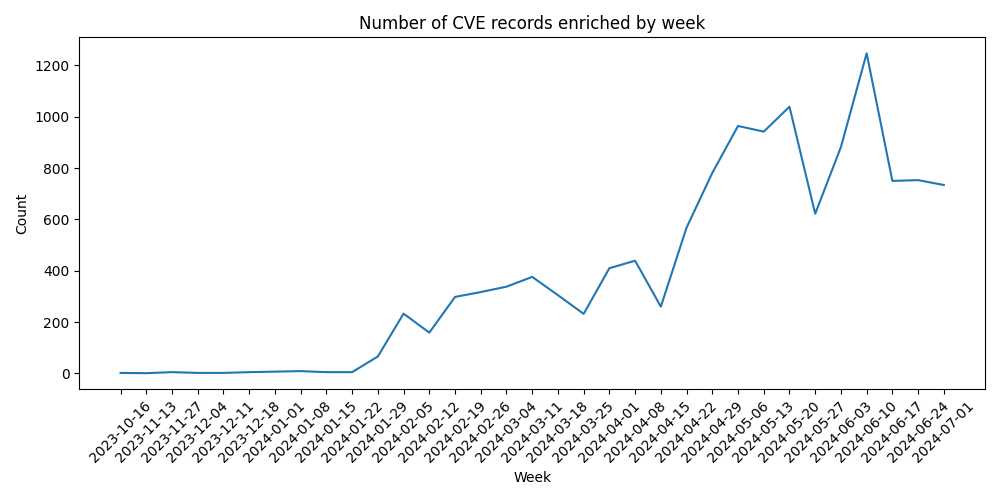
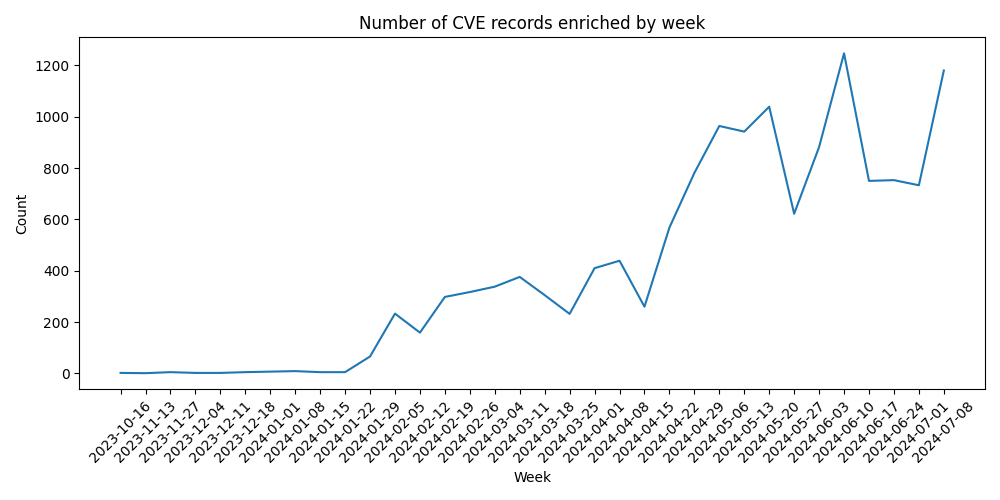
Daily update: 07-15-2024

diff --git a/archive/vulnrichment.html b/archive/vulnrichment.html
@@ -12,7 +12,7 @@
 <body>
     <div class="container">
       <h1 class="my-4 title">Vulnrichment Dashboard</h1>
-      <p> Updated 2024-07-14 12:59:32 PST</p>
+      <p> Updated 2024-07-15 07:42:21 PST</p>
       <h4 class="my-4">CVE SSVC Enrichment Data</h4>
       
       <p>The data presented in this table represents the number of CVE records enriched by the Cybersecurity and Infrastructure Security Agency (CISA) as part of their vulnerability enrichment (vulnrichment) effort. The records are categorized by different time periods: Today, This Week, Last Week, This Month, Last Month, and This Year. These time periods are calculated using the timestamp values found in the SSVC content provided by CISA in the <a href="https://github.com/cisagov/vulnrichment">vulnrichment</a> GitHub repository.</p>
@@ -25,19 +25,19 @@
         </thead>
         <tr>
             <td>Today</td>
-            <td>0</td>
+            <td>30</td>
         </tr>
         <tr>
             <td>This week</td>
-            <td>1179</td>
+            <td>30</td>
         </tr>
         <tr>
             <td>Last week</td>
-            <td>734</td>
+            <td>1180</td>
         </tr>
         <tr>
             <td>This month</td>
-            <td>1913</td>
+            <td>1943</td>
         </tr>
         <tr>
             <td>Last month</td>
@@ -45,7 +45,7 @@
         </tr>
         <tr>
             <td>This year</td>
-            <td>13920</td>
+            <td>13950</td>
         </tr>
     </table>
       <div class="row">
@@ -63,15 +63,15 @@
                 </thead>
                 <tr>
                     <td>Active</td>
-                    <td>92</td>
+                    <td>93</td>
                 </tr>
                 <tr>
                     <td>POC</td>
-                    <td>1599</td>
+                    <td>1612</td>
                 </tr>
                 <tr>
                     <td>None</td>
-                    <td>12246</td>
+                    <td>12262</td>
                 </tr>
             </table>
         </div>
@@ -86,11 +86,11 @@
                 </thead>
                 <tr>
                     <td>Yes</td>
-                    <td>1808</td>
+                    <td>1813</td>
                 </tr>
                 <tr>
                     <td>No</td>
-                    <td>12129</td>
+                    <td>12154</td>
                 </tr>
             </table>
         </div>
@@ -106,11 +106,11 @@
                 </thead>
                 <tr>
                     <td>Total</td>
-                    <td>4044</td>
+                    <td>4052</td>
                 </tr>
                 <tr>
                     <td>Partial</td>
-                    <td>9893</td>
+                    <td>9915</td>
                 </tr>
             </table>
         </div>
@@ -127,15 +127,15 @@
                 </thead>
                 <tr>
                     <td>CVSS 3.1 Score</td>
-                    <td>1612</td>
+                    <td>1621</td>
                 </tr>
                 <tr>
                     <td>CWE-ID</td>
-                    <td>1607</td>
+                    <td>1609</td>
                 </tr>
                 <tr>
                     <td>CPE String (at least 1)</td>
-                    <td>5816</td>
+                    <td>5837</td>
                 </tr>
                 <tr>
                     <td>CISA KEV Presence</td>
@@ -171,7 +171,7 @@
             
             <tr>
                 <td>CWE-94 - Improper Control of Generation of Code ('Code Injection')</td>
-                <td>80</td>
+                <td>81</td>
             </tr>
             
             <tr>
@@ -199,9 +199,9 @@
         </tr>
     </thead>
     <tbody>
-        <tr><td><span style="background-color:black; padding: 5px; font-weight: bold; color: white;">Critical</span></td><td>295</td></tr>
-        <tr><td><span style="background-color:red; padding: 5px; font-weight: bold;">High</span></td><td>680</td></tr>
-        <tr><td><span style="background-color:orange; padding: 5px; font-weight: bold;">Medium</span></td><td>591</td></tr>
+        <tr><td><span style="background-color:black; padding: 5px; font-weight: bold; color: white;">Critical</span></td><td>296</td></tr>
+        <tr><td><span style="background-color:red; padding: 5px; font-weight: bold;">High</span></td><td>684</td></tr>
+        <tr><td><span style="background-color:orange; padding: 5px; font-weight: bold;">Medium</span></td><td>595</td></tr>
         <tr><td><span style="background-color:yellow; padding: 5px; font-weight: bold;">Low</span></td><td>32</td></tr>
         <tr><td><span style="background-color:gray; padding: 5px; font-weight: bold; color: white;">None</span></td><td>14</td></tr>
     </tbody>

diff --git a/archive/2024-07-15.html b/archive/2024-07-15.html
@@ -67,5 +67,5 @@
 </tbody>
 </table>
 </div>
-<p class="text-right mt-4">Generated on 2024-07-15 07:41:47 PST</p>
+<p class="text-right mt-4">Generated on 2024-07-15 07:42:41 PST</p>
 </div></body></html>

diff --git a/index.html b/index.html
@@ -67,5 +67,5 @@
 </tbody>
 </table>
 </div>
-<p class="text-right mt-4">Generated on 2024-07-15 07:41:47 PST</p>
+<p class="text-right mt-4">Generated on 2024-07-15 07:42:41 PST</p>
 </div></body></html>
